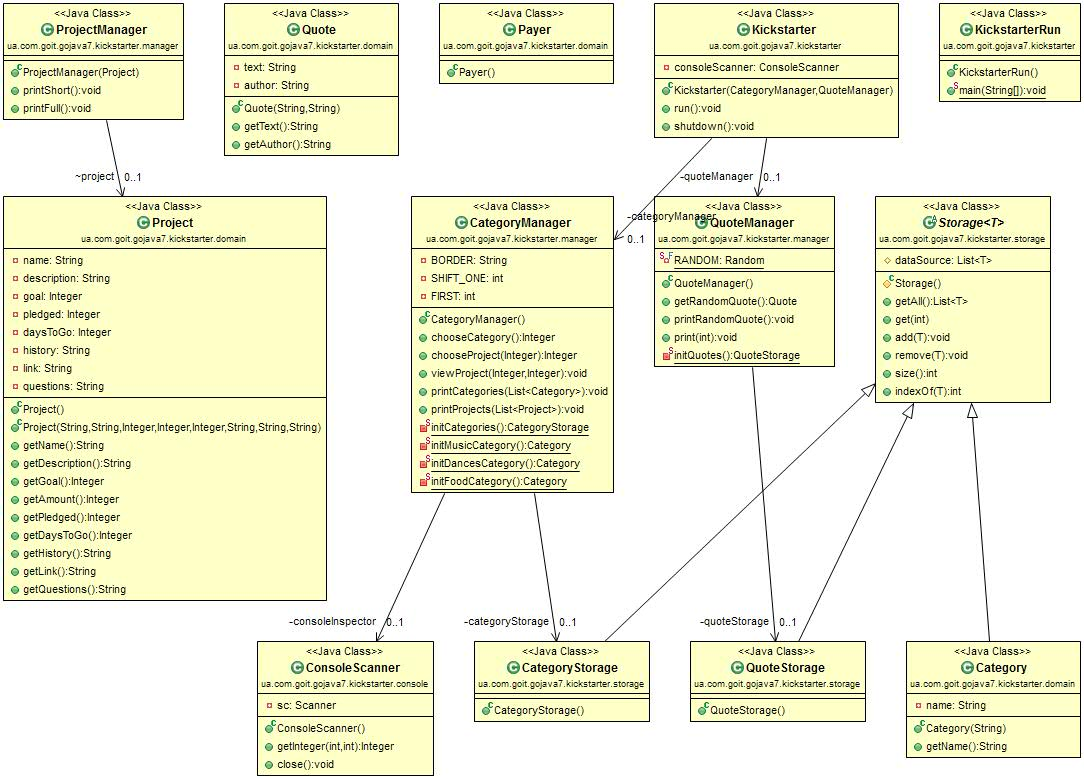
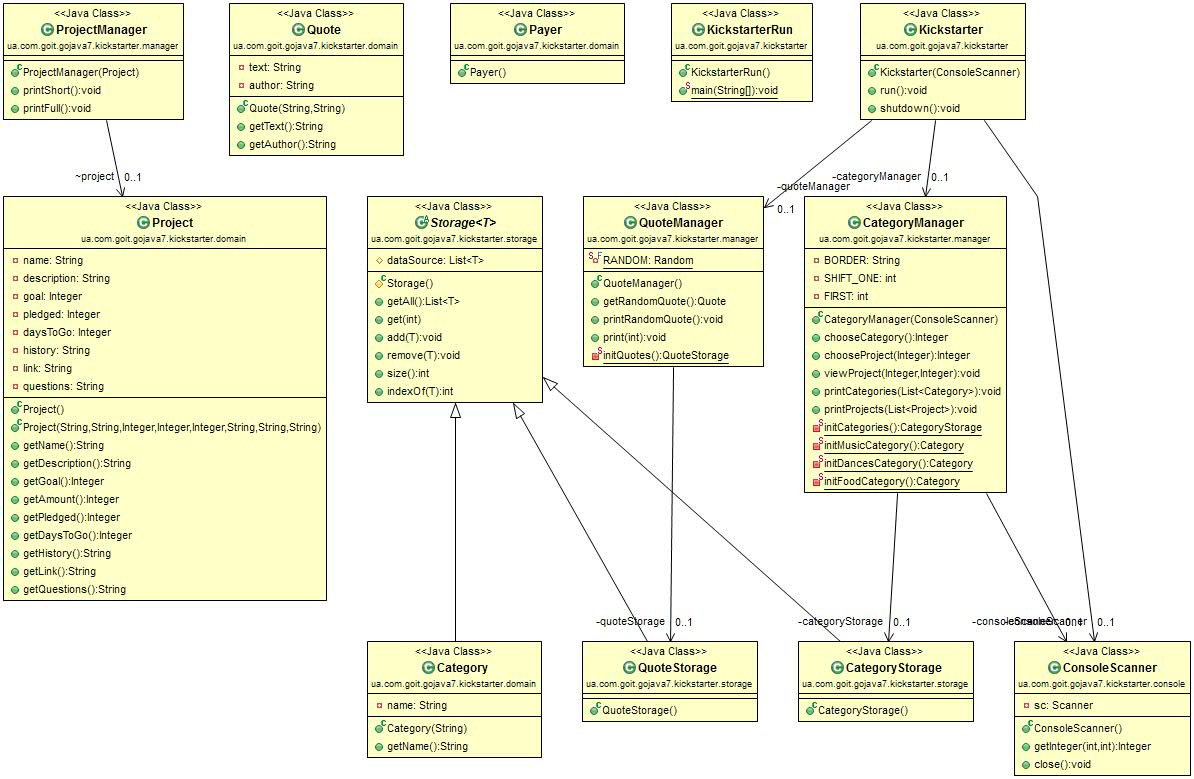
moved soncoleScanner

diff --git a/trunk/GoJava7/dobritsa/KickstarterDobritsa/src/ua/com/goit/gojava7/kickstarter/manager/CategoryManager.java b/trunk/GoJava7/dobritsa/KickstarterDobritsa/src/ua/com/goit/gojava7/kickstarter/manager/CategoryManager.java
@@ -9,14 +9,15 @@ import ua.com.goit.gojava7.kickstarter.storage.CategoryStorage;
 
 public class CategoryManager {
 
-	private ConsoleScanner consoleInspector = new ConsoleScanner();
+	private ConsoleScanner consoleScanner;
 	private CategoryStorage categoryStorage;
 
 	private String BORDER = "\n________________________________________________________";
 	private int SHIFT_ONE = 1;
 	private int FIRST = 1;
 
-	public CategoryManager() {
+	public CategoryManager(ConsoleScanner consoleScanner) {
+		this.consoleScanner = consoleScanner;
 		categoryStorage = initCategories();
 	}
 
@@ -25,9 +26,9 @@ public class CategoryManager {
 		System.out.println("\nList of categories:");
 		printCategories(categoryStorage.getAll());
 		System.out.println("\nChoose a category by number (0 for exit): ");
-		Integer selectedCategory = consoleInspector.getInteger(FIRST, categoryStorage.size());
+		Integer selectedCategory = consoleScanner.getInteger(FIRST, categoryStorage.size());
 		if (selectedCategory == null) {
-			consoleInspector.close();
+			consoleScanner.close();
 			System.out.println("See you soon!");
 			System.exit(0);
 		}
@@ -41,7 +42,7 @@ public class CategoryManager {
 		System.out.println("List of projects:");
 		printProjects(categoryStorage.get(selectedCategory - SHIFT_ONE).getAll());
 		System.out.println("\nChoose a project by number (first to choose another category): ");
-		Integer selectedProject = consoleInspector.getInteger(FIRST,
+		Integer selectedProject = consoleScanner.getInteger(FIRST,
 				categoryStorage.get(selectedCategory - SHIFT_ONE).size());
 		if (selectedProject == null) {
 			return null;
@@ -58,7 +59,7 @@ public class CategoryManager {
 				categoryStorage.get(selectedCategory - 1).get(selectedProject - 1));
 		projectManager.printFull();
 		System.out.println("\nType 0 to choose another project");
-		consoleInspector.getInteger(FIRST, 0);
+		consoleScanner.getInteger(FIRST, 0);
 	}
 
 	public void printCategories(List<Category> categories) {

diff --git a/trunk/GoJava7/dobritsa/KickstarterDobritsa/src/ua/com/goit/gojava7/kickstarter/KickstarterRun.java b/trunk/GoJava7/dobritsa/KickstarterDobritsa/src/ua/com/goit/gojava7/kickstarter/KickstarterRun.java
@@ -1,15 +1,12 @@
 package ua.com.goit.gojava7.kickstarter;
 
-import ua.com.goit.gojava7.kickstarter.manager.CategoryManager;
-import ua.com.goit.gojava7.kickstarter.manager.QuoteManager;
-
+import ua.com.goit.gojava7.kickstarter.console.ConsoleScanner;
 
 public class KickstarterRun {
-	public static void main(String[] args) {				
-		QuoteManager quoteManager = new QuoteManager();
-		CategoryManager categoryManager = new CategoryManager();
+	public static void main(String[] args) {
+		ConsoleScanner consoleScanner = new ConsoleScanner();
 
-		Kickstarter kickstarter = new Kickstarter(categoryManager, quoteManager);
+		Kickstarter kickstarter = new Kickstarter(consoleScanner);
 		kickstarter.run();
 		kickstarter.shutdown();
 	}

diff --git a/trunk/GoJava7/dobritsa/KickstarterDobritsa/src/ua/com/goit/gojava7/kickstarter/Kickstarter.java b/trunk/GoJava7/dobritsa/KickstarterDobritsa/src/ua/com/goit/gojava7/kickstarter/Kickstarter.java
@@ -6,12 +6,11 @@ import ua.com.goit.gojava7.kickstarter.manager.QuoteManager;
 
 public class Kickstarter {
 	private ConsoleScanner consoleScanner;
-	private QuoteManager quoteManager;
-	private CategoryManager categoryManager;
+	private QuoteManager quoteManager = new QuoteManager();;
+	private CategoryManager categoryManager = new CategoryManager(consoleScanner);
 
-	public Kickstarter(CategoryManager categoryManager, QuoteManager quoteManager) {
-		this.quoteManager = quoteManager;
-		this.categoryManager = categoryManager;
+	public Kickstarter(ConsoleScanner consoleScanner) {	
+		this.consoleScanner = consoleScanner;
 	}
 
 	public void run() {
